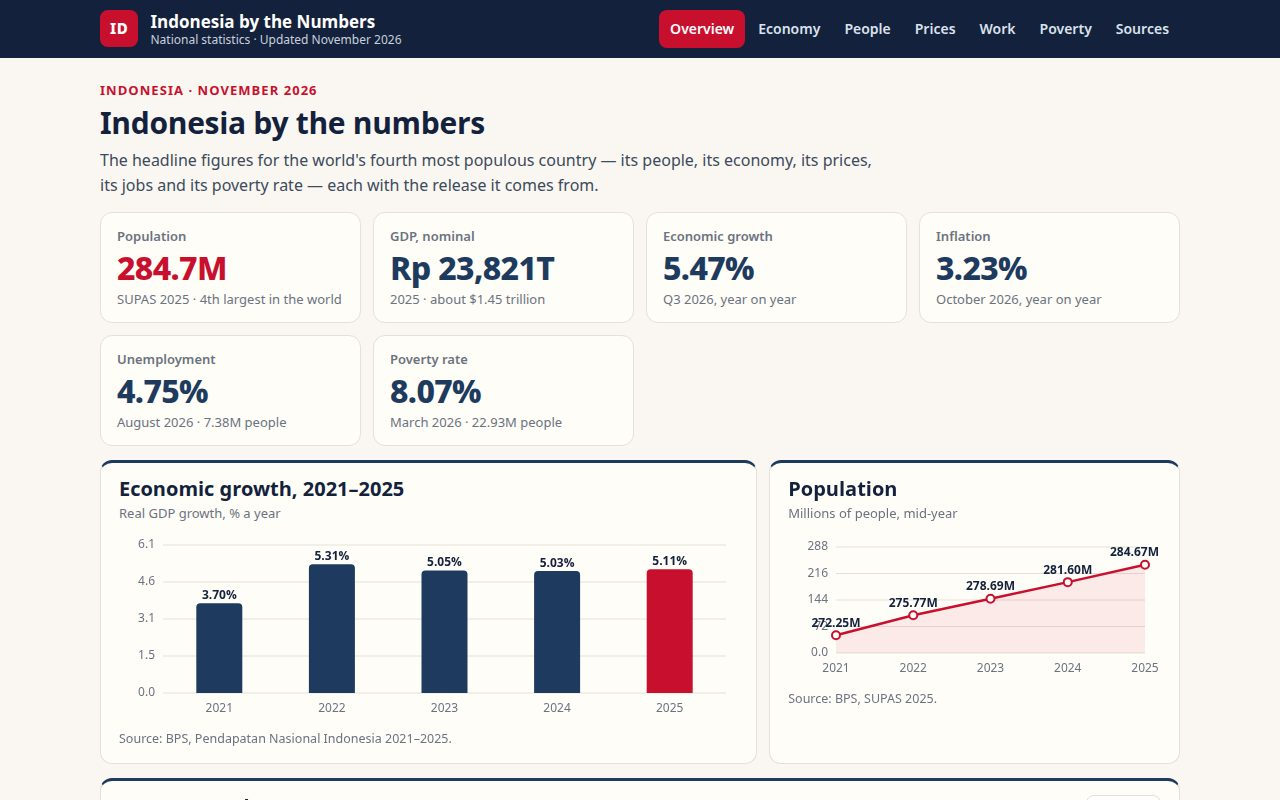
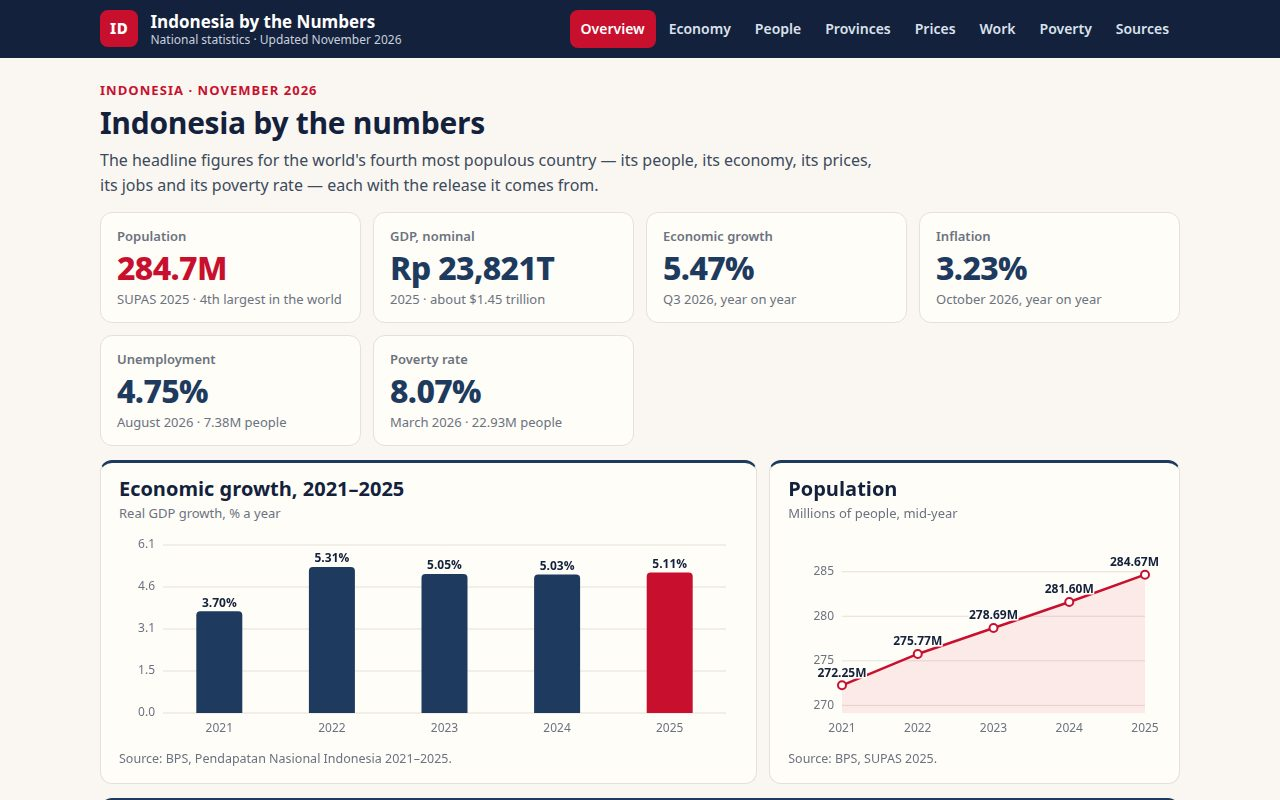
v3: Provinces comparison page, cover fold fixed, population axis fixed

diff --git a/app/js/app.js b/app/js/app.js
@@ -1,7 +1,7 @@
 // Indonesia by the Numbers — views and routing.
 // One hash route per section. Charts are drawn after each render so the
 // canvas always matches the numbers on the page.
-import { ANNUAL, QUARTERLY_GROWTH, SECTORS, INFLATION_MONTHLY, LABOUR, POVERTY, PEOPLE, HEADLINES, SOURCES, annualByYear, formatRpTrillion } from "./data.js";
+import { ANNUAL, QUARTERLY_GROWTH, SECTORS, INFLATION_MONTHLY, LABOUR, POVERTY, PEOPLE, HEADLINES, SOURCES, PROVINCES, PROVINCE_TOTAL_POP, annualByYear, formatRpTrillion } from "./data.js";
 import { drawBarChart, drawLineChart, drawDonut } from "./charts.js";
 
 const root = document.getElementById("view");
@@ -10,6 +10,7 @@ const ROUTES = {
   "": { title: "Overview", render: renderOverview },
   economy: { title: "Economy", render: renderEconomy },
   people: { title: "People", render: renderPeople },
+  provinces: { title: "Provinces", render: renderProvinces },
   prices: { title: "Prices", render: renderPrices },
   work: { title: "Work", render: renderWork },
   poverty: { title: "Poverty", render: renderPoverty },
@@ -67,8 +68,8 @@ function renderOverview() {
         <li><strong>2025</strong> — Population 284.67 million in the SUPAS intercensal survey; 55.65% live on Java. <span class="tag">BPS</span></li>
       </ul>
     </section>`));
-  drawBarChart(document.getElementById("chart-growth"), ANNUAL.map((r) => ({ label: String(r.year), value: r.gdpGrowth })), { unit: "%", highlightLast: true });
-  drawLineChart(document.getElementById("chart-pop"), ANNUAL.map((r) => ({ label: String(r.year), value: r.population })), { unit: "M" });
+  drawBarChart(document.getElementById("chart-growth"), ANNUAL.map((r) => ({ label: String(r.year), value: r.gdpGrowth })), { unit: "%", highlightLast: true, height: 210 });
+  drawLineChart(document.getElementById("chart-pop"), ANNUAL.map((r) => ({ label: String(r.year), value: r.population })), { unit: "M", height: 210 });
   const pick = document.getElementById("year-pick");
   const showYear = () => {
     const r = annualByYear(Number(pick.value));
@@ -167,6 +168,58 @@ function renderPeople() {
     { label: "Java", value: PEOPLE.javaShare },
     { label: "Rest of Indonesia", value: 100 - PEOPLE.javaShare },
   ], { centerTop: "55.65%", centerSub: "live on Java" });
+}
+
+// ---------- Provinces ----------
+let provinceSort = "pop";
+function renderProvinces() {
+  const top10 = [...PROVINCES].sort((a, b) => b.pop - a.pop).slice(0, 10);
+  root.appendChild(el(`
+    ${sectionHead("Provinces", "38 provinces, one country", "Where Indonesians live — and how far each province is from the national poverty rate. Population is mid-2024, poverty is March 2025; every figure below is from a BPS release, with its year. Nothing here is estimated by this site.")}
+    <div class="stat-grid">
+      ${statCard({ label: "Largest province", value: "Jawa Barat", sub: "50.35 million people · 17.88% of Indonesia" })}
+      ${statCard({ label: "Highest poverty", value: "30.03%", sub: "Papua Pegunungan, Mar 2025" })}
+      ${statCard({ label: "Lowest poverty", value: "3.72%", sub: "Bali, Mar 2025" })}
+      ${statCard({ label: "Provinces", value: "38", sub: "281.60 million people, mid-2024" })}
+    </div>
+    <section class="panel">
+      <h2>Compare all 38 provinces <span class="year-pick"><input id="province-filter" type="search" placeholder="Type a province name" aria-label="Filter provinces"></span></h2>
+      <p class="panel-sub">Population mid-2024 · Poverty rate March 2025 · <span id="province-count">38 provinces</span> <span class="year-pick"><button id="province-sort" type="button">Sort: most people</button></span></p>
+      <div class="table-scroll"><table class="data-table"><thead><tr><th>Province</th><th class="num">Pop.</th><th class="num">Share</th><th class="num">Poverty</th></tr></thead>
+      <tbody id="province-rows"></tbody></table></div>
+      ${sourceNote("BPS. Population: Hasil Proyeksi Penduduk Interim 2020–2023 (mid-year, June 2024). Poverty: Susenas, March 2025; national rate 8.47%.")}
+    </section>
+    <section class="panel">
+      <h2>Ten most populous provinces</h2>
+      <p class="panel-sub">Population, millions, mid-2024</p>
+      <canvas id="chart-prov-pop" aria-label="Bar chart of the ten most populous provinces"></canvas>
+      ${sourceNote("BPS, Hasil Proyeksi Penduduk Interim 2020–2023. Labels shortened; full names are in the table.")}
+    </section>`));
+  drawBarChart(document.getElementById("chart-prov-pop"), top10.map((p) => ({ label: p.short, value: p.pop / 1000 })), { unit: "M" });
+  const rowsEl = document.getElementById("province-rows");
+  const countEl = document.getElementById("province-count");
+  const sortBtn = document.getElementById("province-sort");
+  const filterInput = document.getElementById("province-filter");
+  const sorted = () => {
+    const rows = [...PROVINCES];
+    if (provinceSort === "pop") rows.sort((a, b) => b.pop - a.pop);
+    else if (provinceSort === "poverty") rows.sort((a, b) => b.poverty - a.poverty);
+    else rows.sort((a, b) => a.name.localeCompare(b.name));
+    return rows;
+  };
+  const drawRows = () => {
+    const q = filterInput.value.trim().toLowerCase();
+    const rows = sorted().filter((p) => !q || p.name.toLowerCase().includes(q));
+    rowsEl.innerHTML = rows.map((p) => `<tr><td>${p.name}</td><td class="num">${(p.pop / 1000).toFixed(2)}M</td><td class="num">${(p.pop / PROVINCE_TOTAL_POP * 100).toFixed(2)}%</td><td class="num">${p.poverty.toFixed(2)}%</td></tr>`).join("");
+    countEl.textContent = rows.length + " of 38 provinces shown";
+  };
+  sortBtn.addEventListener("click", () => {
+    provinceSort = provinceSort === "pop" ? "poverty" : provinceSort === "poverty" ? "name" : "pop";
+    sortBtn.textContent = provinceSort === "pop" ? "Sort: most people" : provinceSort === "poverty" ? "Sort: highest poverty" : "Sort: A–Z";
+    drawRows();
+  });
+  filterInput.addEventListener("input", drawRows);
+  drawRows();
 }
 
 // ---------- Prices ----------

diff --git a/app/js/data.js b/app/js/data.js
@@ -73,6 +73,56 @@ export const POVERTY = {
   ],
 };
 
+// Population and poverty by province — the comparison table on the
+// Provinces page. Population is mid-2024 (thousands) from BPS, Hasil
+// Proyeksi Penduduk Interim 2020–2023 (mid-year/June); the 38 provinces
+// sum to 281,603.9 thousand, 0.1 above the published national total of
+// 281,603.8 thousand from rounding. Poverty is the March 2025 rate
+// (Susenas) from BPS; the national rate that month was 8.47%. Short
+// labels are only for the top-10 chart; the table shows the full names. Rates only are shown: the poverty publications use their own population bases, which differ from these mid-2024 projections, so no absolute counts are derived from them here.
+export const PROVINCES = [
+  { name: "Jawa Barat", short: "Jabar", pop: 50345.2, poverty: 7.02 },
+  { name: "Jawa Timur", short: "Jatim", pop: 41814.5, poverty: 9.50 },
+  { name: "Jawa Tengah", short: "Jateng", pop: 37892.3, poverty: 9.48 },
+  { name: "Sumatera Utara", short: "Sumut", pop: 15588.5, poverty: 7.36 },
+  { name: "Banten", short: "Banten", pop: 12431.4, poverty: 5.63 },
+  { name: "DKI Jakarta", short: "DKI", pop: 10684.9, poverty: 4.28 },
+  { name: "Sulawesi Selatan", short: "Sulsel", pop: 9463.4, poverty: 7.60 },
+  { name: "Lampung", short: "Lampung", pop: 9419.6, poverty: 10.00 },
+  { name: "Sumatera Selatan", short: "Sumsel", pop: 8837.3, poverty: 10.15 },
+  { name: "Riau", short: "Riau", pop: 6728.1, poverty: 6.16 },
+  { name: "Sumatera Barat", short: "Sumbar", pop: 5836.2, poverty: 5.35 },
+  { name: "Kalimantan Barat", short: "Kalbar", pop: 5695.5, poverty: 6.16 },
+  { name: "Nusa Tenggara Timur", short: "NTT", pop: 5656.0, poverty: 18.60 },
+  { name: "Nusa Tenggara Barat", short: "NTB", pop: 5646.0, poverty: 11.78 },
+  { name: "Aceh", short: "Aceh", pop: 5554.8, poverty: 12.33 },
+  { name: "Bali", short: "Bali", pop: 4433.3, poverty: 3.72 },
+  { name: "Kalimantan Selatan", short: "Kalsel", pop: 4273.4, poverty: 3.84 },
+  { name: "Kalimantan Timur", short: "Kaltim", pop: 4045.9, poverty: 5.17 },
+  { name: "DI Yogyakarta", short: "DIY", pop: 3759.5, poverty: 10.23 },
+  { name: "Jambi", short: "Jambi", pop: 3724.3, poverty: 7.19 },
+  { name: "Sulawesi Tengah", short: "Sulteng", pop: 3121.8, poverty: 10.92 },
+  { name: "Kalimantan Tengah", short: "Kalteng", pop: 2809.7, poverty: 5.19 },
+  { name: "Sulawesi Tenggara", short: "Sultra", pop: 2793.1, poverty: 10.54 },
+  { name: "Sulawesi Utara", short: "Sulut", pop: 2701.8, poverty: 6.71 },
+  { name: "Kepulauan Riau", short: "Kepri", pop: 2183.3, poverty: 4.44 },
+  { name: "Bengkulu", short: "Bengkulu", pop: 2112.2, poverty: 12.08 },
+  { name: "Maluku", short: "Maluku", pop: 1945.6, poverty: 15.38 },
+  { name: "Kepulauan Bangka Belitung", short: "Babel", pop: 1531.5, poverty: 5.00 },
+  { name: "Sulawesi Barat", short: "Sulbar", pop: 1503.2, poverty: 10.41 },
+  { name: "Papua Tengah", short: "P. Tengah", pop: 1472.9, poverty: 28.90 },
+  { name: "Papua Pegunungan", short: "P. Pegunungan", pop: 1467.0, poverty: 30.03 },
+  { name: "Maluku Utara", short: "Malut", pop: 1355.6, poverty: 5.81 },
+  { name: "Gorontalo", short: "Gorontalo", pop: 1227.8, poverty: 13.24 },
+  { name: "Papua", short: "Papua", pop: 1060.6, poverty: 19.16 },
+  { name: "Kalimantan Utara", short: "Kaltara", pop: 739.8, poverty: 5.54 },
+  { name: "Papua Barat Daya", short: "P. Barat Daya", pop: 627.1, poverty: 17.95 },
+  { name: "Papua Barat", short: "P. Barat", pop: 578.7, poverty: 20.66 },
+  { name: "Papua Selatan", short: "P. Selatan", pop: 542.1, poverty: 19.71 },
+];
+
+export const PROVINCE_TOTAL_POP = 281603.8; // thousands, mid-2024 (BPS)
+
 // Population — 2020 Population Census and SUPAS 2025 (Intercensal Survey), BPS.
 export const PEOPLE = {
   census2020: 270.20,
@@ -104,6 +154,8 @@ export const SOURCES = [
   { publisher: "BPS — Statistics Indonesia", title: "Keadaan Ketenagakerjaan Indonesia, August 2026", note: "Open unemployment 4.75%; 147.99 million employed; informal work 57.93%; average wage Rp 3.42 million a month; youth unemployment 17.50%." },
   { publisher: "BPS — Statistics Indonesia", title: "Poverty profile, March 2026", note: "Poverty 8.07% (22.93 million people); poverty line Rp 669,235 per person a month; urban 6.34%, rural 10.67%; Gini ratio 0.368." },
   { publisher: "World Bank", title: "World Development Indicators, November 2026", note: "Population 285.7 million (2025); GDP $1.45 trillion, 17th in the world; GDP per capita $5,060; inflation 1.9% in 2025." },
+  { publisher: "BPS — Statistics Indonesia", title: "Jumlah Penduduk menurut Provinsi, 2024", note: "Population by province, mid-2024 (Hasil Proyeksi Penduduk Interim 2020–2023); national total 281.60 million; Jawa Barat 50.35 million, Jawa Timur 41.81 million, Papua Selatan 0.54 million." },
+  { publisher: "BPS — Statistics Indonesia", title: "Persentase Penduduk Miskin menurut Provinsi, Maret 2025", note: "Poverty by province, March 2025 (Susenas); national rate 8.47%; highest Papua Pegunungan 30.03%, lowest Bali 3.72%." },
 ];
 
 export function annualByYear(year) {

diff --git a/app/js/charts.js b/app/js/charts.js
@@ -29,6 +29,8 @@ function fitHeight(canvas) {
   return w < 420 ? 150 : 190;
 }
 
+// 0-based gridlines for bar charts (bars start at zero); line charts use
+// rangeAxes below, which draws ticks on the same lo..hi scale as the line.
 function axes(ctx, w, h, pad, maxV, ticks) {
   ctx.strokeStyle = GRID;
   ctx.fillStyle = MUTED;
@@ -44,6 +46,39 @@ function axes(ctx, w, h, pad, maxV, ticks) {
     ctx.stroke();
     ctx.fillText(v.toFixed(v < 10 ? 1 : 0), pad.left - 8, y);
   }
+}
+
+// Round tick steps (1, 2, 5 or 10 times a power of ten) inside a range.
+function niceTicks(lo, hi, count) {
+  const span = Math.max(hi - lo, 0.001);
+  const step0 = span / count;
+  const mag = Math.pow(10, Math.floor(Math.log10(step0)));
+  const norm = step0 / mag;
+  const step = (norm < 1.5 ? 1 : norm < 3.5 ? 2 : norm < 7.5 ? 5 : 10) * mag;
+  const ticks = [];
+  for (let v = Math.ceil(lo / step) * step; v <= hi + 1e-9; v += step) ticks.push(v);
+  return { ticks, step };
+}
+
+// Gridlines for a line chart, drawn on the same lo..hi scale the line
+// itself is plotted on, so a tick label always matches the line's height.
+function rangeAxes(ctx, w, h, pad, lo, hi) {
+  const { ticks, step } = niceTicks(lo, hi, 4);
+  const decimals = step >= 1 ? 0 : step >= 0.1 ? 1 : 2;
+  ctx.strokeStyle = GRID;
+  ctx.fillStyle = MUTED;
+  ctx.lineWidth = 1;
+  ctx.textAlign = "right";
+  ctx.textBaseline = "middle";
+  const yOf = (v) => pad.top + (h - pad.top - pad.bottom) * (hi - v) / (hi - lo);
+  ticks.forEach((v) => {
+    const y = yOf(v);
+    ctx.beginPath();
+    ctx.moveTo(pad.left, y);
+    ctx.lineTo(w - pad.right, y);
+    ctx.stroke();
+    ctx.fillText(v.toFixed(decimals), pad.left - 8, y);
+  });
 }
 
 export function drawBarChart(canvas, data, opts) {
@@ -77,14 +112,18 @@ export function drawLineChart(canvas, data, opts) {
   const { unit = "", color = RED, height: optHeight, fill = true } = opts || {};
   const height = optHeight || fitHeight(canvas);
   const { ctx, w, h } = setup(canvas, height);
-  const pad = { top: 16, right: 16, bottom: 28, left: 48 };
+  const pad = { top: 16, right: 16, bottom: 28, left: 54 };
   const values = data.map((d) => d.value);
   const minV = Math.min(...values);
   const maxV = Math.max(...values);
   const span = Math.max(maxV - minV, 0.001);
   const lo = minV - span * 0.25;
   const hi = maxV + span * 0.25;
-  axes(ctx, w, h, pad, hi, 4);
+  // The axis must use the same lo..hi scale as the plotted line: the old
+  // code drew ticks at fractions of hi (0, 72, 144, 216, 288 for a series
+  // running 272–285), which disagreed with the line and crowded the first
+  // point's label. Nice ticks inside [lo, hi] keep both honest.
+  rangeAxes(ctx, w, h, pad, lo, hi);
   const xs = data.map((_, i) => pad.left + ((w - pad.left - pad.right) * i) / (data.length - 1));
   const ys = values.map((v) => pad.top + ((h - pad.top - pad.bottom) * (hi - v)) / (hi - lo));
   if (fill) {
@@ -117,8 +156,11 @@ export function drawLineChart(canvas, data, opts) {
     ctx.lineWidth = 2;
     ctx.stroke();
     const valueText = d.value.toFixed(2).replace(/\.00$/, "") + unit;
-    ctx.fillStyle = INK;
     ctx.font = "bold 12px system-ui, -apple-system, sans-serif";
+    ctx.fillStyle = INK;
+    ctx.strokeStyle = "#fffdf8";
+    ctx.lineWidth = 3;
+    ctx.strokeText(valueText, clampX(xs[i], valueText), ys[i] - 12);
     ctx.fillText(valueText, clampX(xs[i], valueText), ys[i] - 12);
     ctx.font = "12px system-ui, -apple-system, sans-serif";
     ctx.fillStyle = MUTED;

diff --git a/app/css/style.css b/app/css/style.css
@@ -119,3 +119,14 @@ body {
   .section-head h1 { font-size: 24px; }
   .lede { font-size: 15px; }
 }
+
+/* Provinces */
+.table-scroll { overflow-x: auto; }
+.data-table th.num, .data-table td.num { text-align: right; font-variant-numeric: tabular-nums; }
+
+/* Provinces on phones: keep the comparison table inside the viewport. */
+@media (max-width: 480px) {
+  .table-scroll .data-table { font-size: 13px; table-layout: fixed; width: 100%; }
+  .table-scroll .data-table th, .table-scroll .data-table td { padding: 6px 6px; }
+  .panel-sub .year-pick { float: none; display: inline-block; vertical-align: middle; }
+}

diff --git a/app/index.html b/app/index.html
@@ -18,6 +18,7 @@
       <a class="nav-link" href="#/">Overview</a>
       <a class="nav-link" href="#/economy">Economy</a>
       <a class="nav-link" href="#/people">People</a>
+      <a class="nav-link" href="#/provinces">Provinces</a>
       <a class="nav-link" href="#/prices">Prices</a>
       <a class="nav-link" href="#/work">Work</a>
       <a class="nav-link" href="#/poverty">Poverty</a>

diff --git a/README.md b/README.md
@@ -11,6 +11,7 @@ A national statistics site for Indonesia: population, economy, prices, work and 
 - **Overview** — six headline indicators, GDP growth and population charts, a year picker (2021–2025) and the latest releases.
 - **Economy** — quarterly growth, GDP by sector, and an annual table. The growth chart switches between bars and a line.
 - **People** — population from the 2020 census and the SUPAS 2025 survey, and the Java share of the population.
+- **Provinces** — all 38 provinces compared: population (mid-2024) and poverty rate (March 2025), with a sortable, searchable table.
 - **Prices** — inflation by year and by month, against Bank Indonesia's 2.5% ± 1 point target.
 - **Work** — unemployment, youth unemployment, informal work and wages from Sakernas.
 - **Poverty** — the poverty rate, the poverty line, urban vs rural, and the Gini ratio, with a sortable release table.
@@ -27,4 +28,4 @@ The site is static files under `app/` with no network requests: no fonts, librar
 
 ## Data
 
-All figures are from official releases as of November 2026: BPS national accounts, SUPAS 2025, CPI, Sakernas August 2026 and the March 2026 poverty release, plus the World Bank's World Development Indicators. See the Sources page in the site for the full list.
+All figures are from official releases as of November 2026: BPS national accounts, SUPAS 2025, CPI, Sakernas August 2026 and the March 2026 poverty release, plus the World Bank's World Development Indicators. Province figures are BPS mid-2024 population projections and the March 2025 Susenas poverty release. See the Sources page in the site for the full list.
